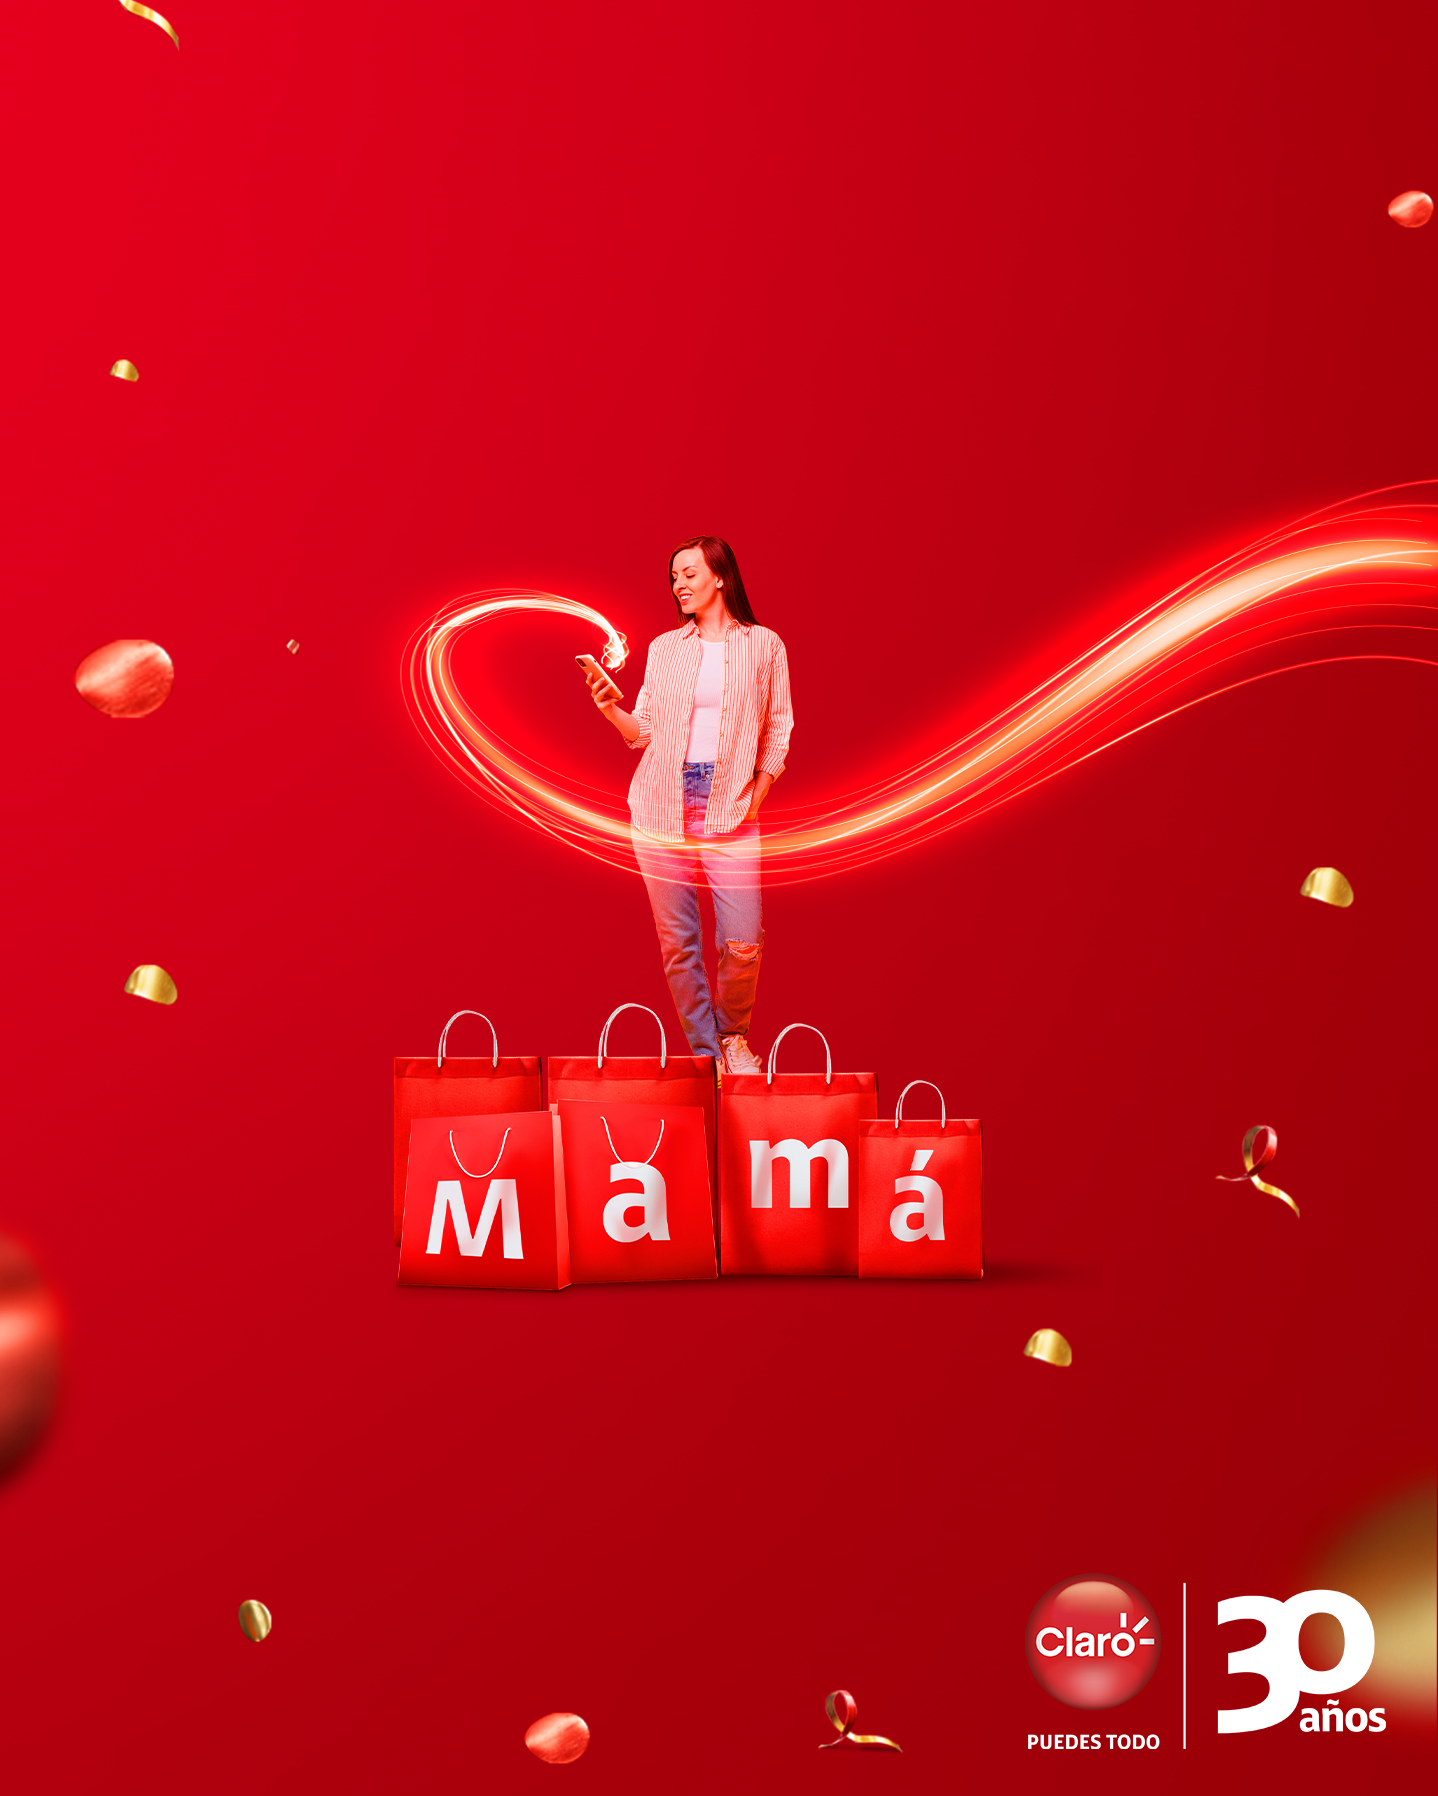
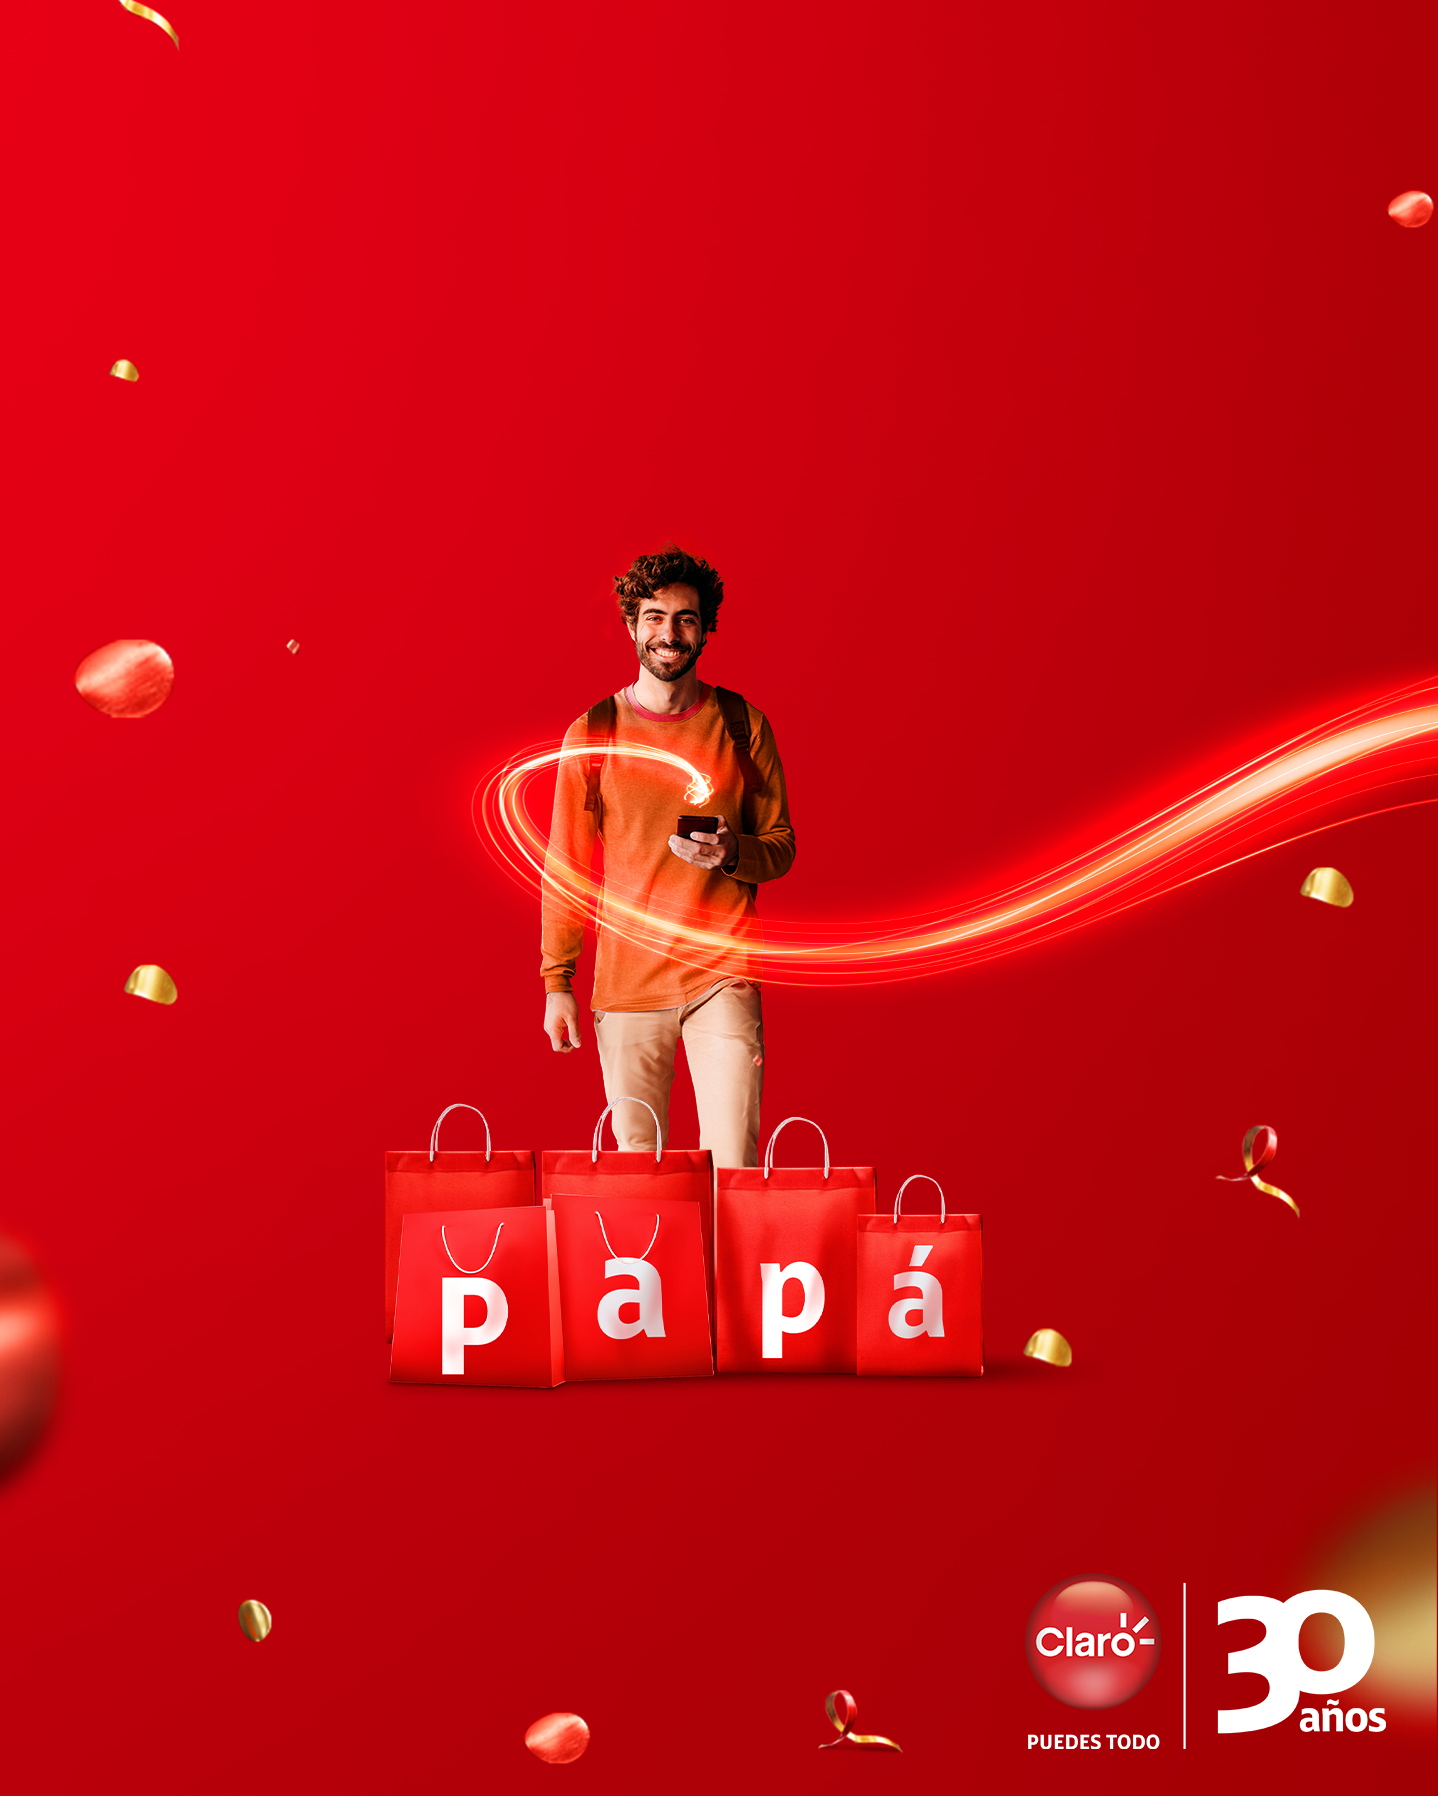
trivia claro  padres

Changed region(s): [[0.2448, 0.2494, 1.0, 0.7795]]

diff --git a/src/components/question.jsx b/src/components/question.jsx
@@ -21,11 +21,37 @@ const Question = ({
     setCurrentQuestion(currentQuestion + 1);
   };
 
-  return (
+   // Function to insert a line break at specified keywords
+   const formatQuestionText = (text, keyword) => {
+    const [firstPart, secondPart] = text.split(keyword);
+    return (
+      <>
+        {firstPart}
+        {keyword}
+        <br />
+        {secondPart}
+      </>
+    );
+  };
+
+  // Define break keywords for specific questions
+  const getBreakKeyword = (question) => {
+    if (question.includes("nos")) return " nos ";
+    if (question.includes("papá")) return " papá ";
+    return null; // No keyword found, return null
+  };
+
+
+   return (
     <div className="questions-container2">
       <div className="question-title">
         <p style={preguntaNumeroStyle}>Pregunta #{currentQuestion}</p>
-        <p>{dataQuestions.results[positionQuestion].question}</p>
+        <p className="question-text" style={{ marginTop: '-5px' }}>
+          {formatQuestionText(
+            dataQuestions.results[positionQuestion].question,
+            getBreakKeyword(dataQuestions.results[positionQuestion].question)
+          )}
+        </p>
       </div>
       <div className="buttons-questions-container">
         {dataQuestions.results[positionQuestion].answers.map(
@@ -37,9 +63,11 @@ const Question = ({
                   key={`${index}-questions`}
                   id={index}
                   value={index}
-                  onClick={setActiveQuestion}
+                  onClick={(e) => {
+                    console.log("Índice de la respuesta seleccionada:", index);
+                    setActiveQuestion(e);
+                  }}
                 >
-
                   <p id={index} value={index}>
                     {questionText}
                   </p>
@@ -51,9 +79,11 @@ const Question = ({
                 key={`${index}-questions`}
                 id={index}
                 className="button-question-container"
-                onClick={setActiveQuestion}
+                onClick={(e) => {
+                  console.log("Índice de la respuesta seleccionada:", index);
+                  setActiveQuestion(e);
+                }}
               >
-                
                 <p id={index} value={index}>
                   {questionText}
                 </p>
@@ -62,12 +92,11 @@ const Question = ({
           }
         )}
       </div>
-                  <div className="icons">
-                    <img src={iconA} alt="iconA" />
-                    <img src={iconB} alt="iconB" />
-                    <img src={iconC} alt="iconC" />
-                  </div>
-
+      <div className="icons">
+        <img src={iconA} alt="iconA" />
+        <img src={iconB} alt="iconB" />
+        <img src={iconC} alt="iconC" />
+      </div>
       {answerSelected !== null && (
         <div
           onClick={() => {
@@ -77,7 +106,6 @@ const Question = ({
           className="next-question"
         >
           <img src={buttonNext} alt="" width={175} height={50} />
-          {/* <p>siguiente</p> */}
         </div>
       )}
     </div>

diff --git a/src/components/results.jsx b/src/components/results.jsx
@@ -4,6 +4,7 @@ import dataQuestions from "../questions.json";
 // import retryImage from "../images/retry.png";
 
 const Results = ({ correctAnswers, goToHome, answers }) => {
+  console.log("Respuestas correctas:", dataQuestions.results);
   return (
     <div className="questions-container3">
       <div className="logo-container-finish">
@@ -14,7 +15,7 @@ const Results = ({ correctAnswers, goToHome, answers }) => {
         ) : (
           <h1>¡Puedes hacerlo mejor!</h1>
         )}
-        <p>Contestaste correctamente:</p>
+        <p style={{ marginTop: '-3px' }}>Contestaste correctamente:</p>
       </div>
       <div className="buttons-questions-container">
         <div className="question-button-selected2" onClick={goToHome}>
@@ -26,7 +27,7 @@ const Results = ({ correctAnswers, goToHome, answers }) => {
           
         </div>
       </div>
-      <p className="finish-text">
+      <p className="finish-text"style={{ marginTop: '-10px' }}>
         <b>¡Gracias por participar!</b>
       </p>
       {/* <div className="complete-container">

diff --git a/src/App.css b/src/App.css
@@ -37,6 +37,25 @@
   }
 }
 
+.question-text {
+  display: inline-block;
+  width: 100%;
+  word-wrap: break-word;
+  white-space: pre-wrap;
+  margin-top: 100px;
+  
+}
+
+.questions-container2 .question-title .question-text {
+  font-size: 24px;
+  line-height: 1.5;
+  /* Ajusta el ancho según sea necesario */
+  width: calc(100% - 20px);
+  padding: 0 10px;
+  
+}
+
+
 /* .questions-container {
   background-image: url(../public/KV_834X1042.png);
   background-position: center;

diff --git a/src/index.css b/src/index.css
@@ -104,7 +104,7 @@ code {
   text-align: center;
   padding-top: 5px;
   color: white;
-  margin-top: 130px;
+  margin-top: 90px;
 }
 
 .button-question-container {
@@ -138,7 +138,9 @@ code {
   justify-content: center;
   align-items: center;
   flex-direction: column;
+  margin-top: -45px; 
 }
+
 
 .icons {
   display: flex;

diff --git a/src/components/welcome.jsx b/src/components/welcome.jsx
@@ -8,7 +8,7 @@ const Welcome = ({ setShowWelcome }) => {
         <h1>¡hola!</h1>
         <p>
           Bienvenidos a nuestra Trivia <br />
-          de la inteligencia de mamá.
+          de las enseñanzas de papá.
         </p>
       </div>
       <div className="buttons-questions-container">

diff --git a/src/App.jsx b/src/App.jsx
@@ -76,7 +76,7 @@ const Quiz = () => {
     );
   }
 
-  if (dataQuestions.results?.length > 0 && positionQuestion < 15) {
+  if (dataQuestions.results?.length > 0 && positionQuestion < 5) {
     return (
       <Questions
         answerSelected={answerSelected}
